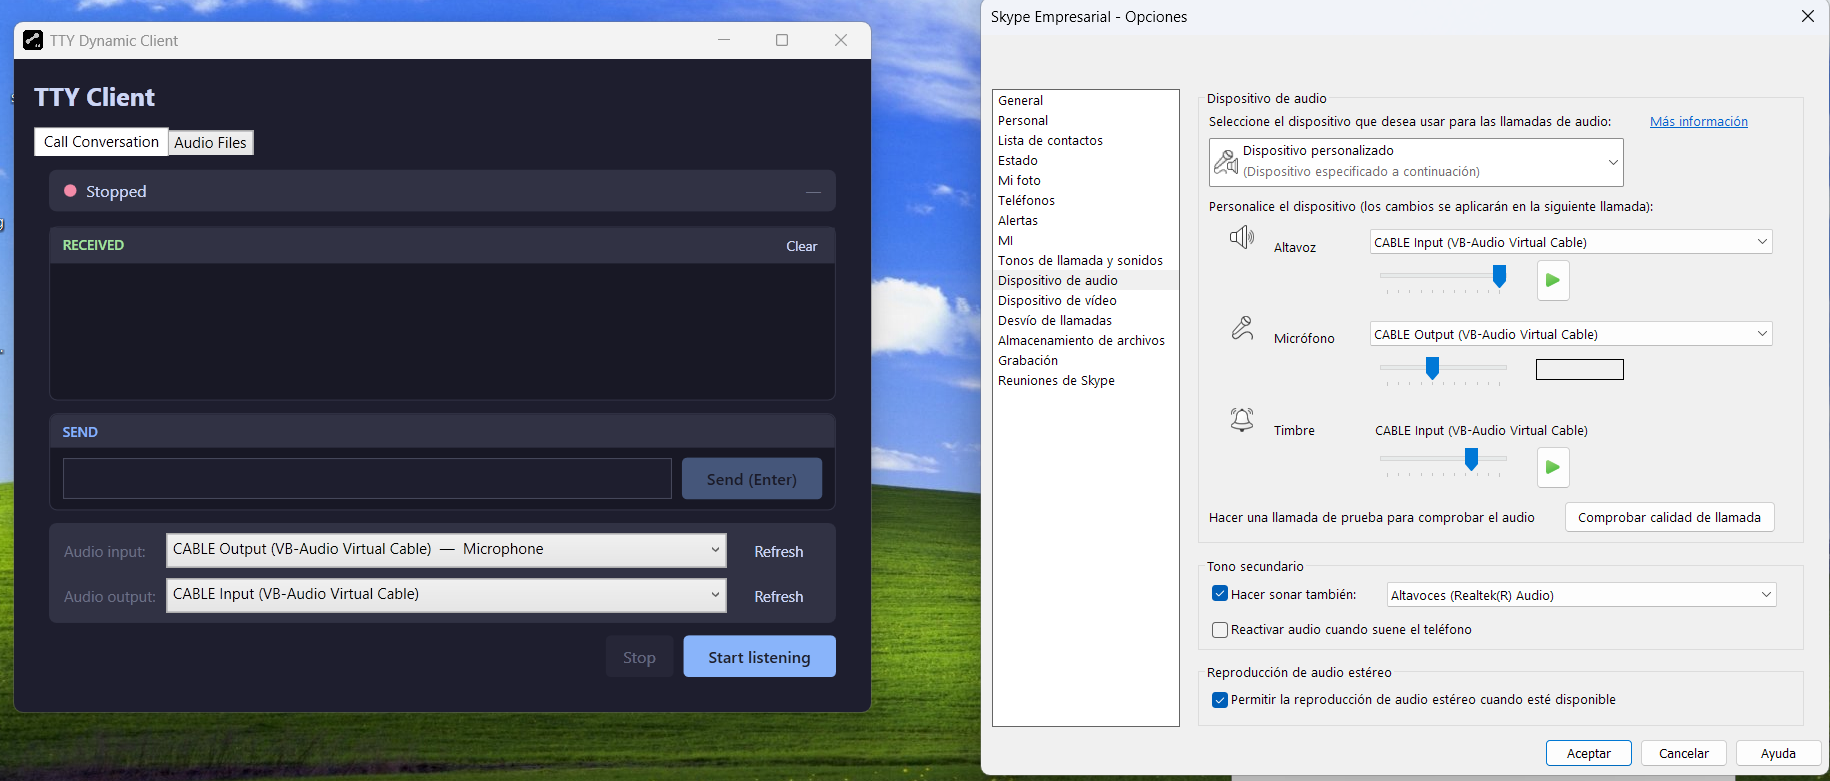
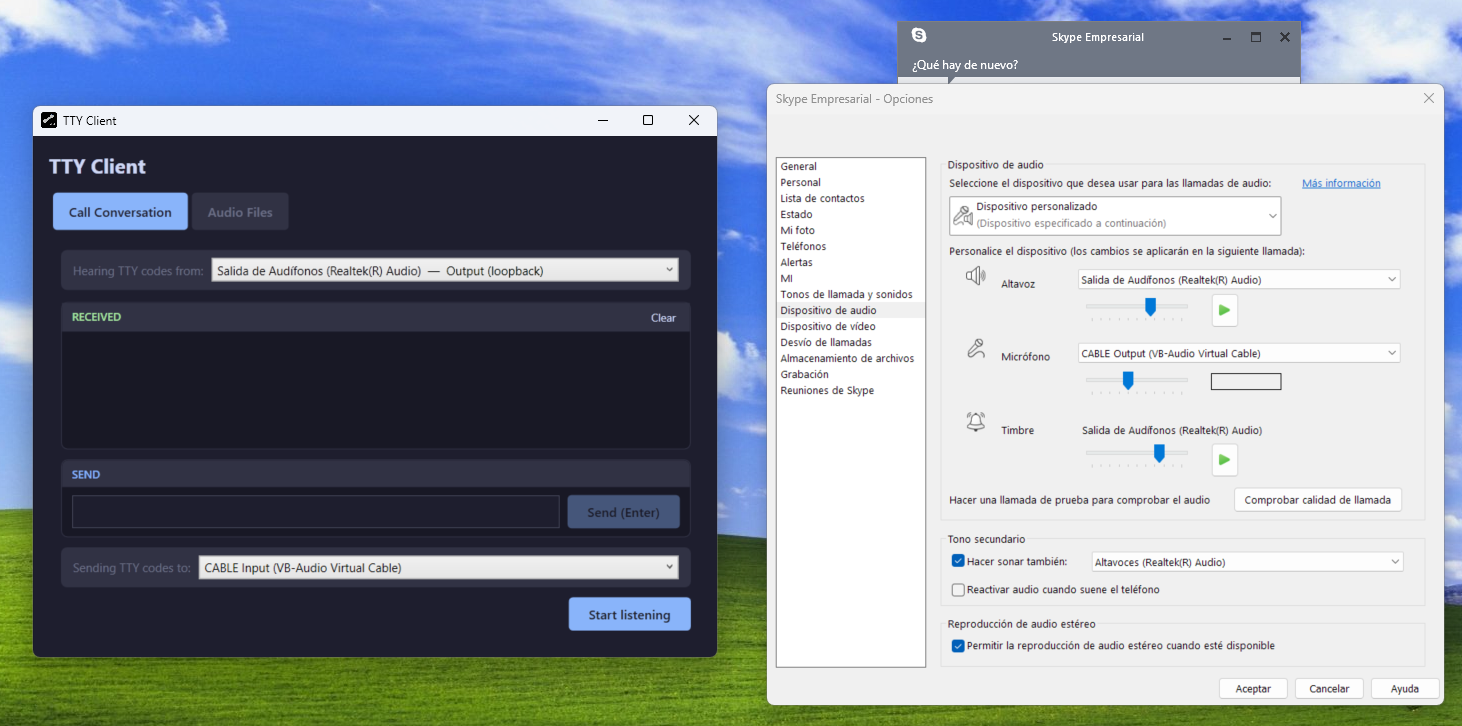
Update README: current device labels, build/run, release workflow note
- Fix stale "Audio output" mentions to the current "Sending TTY codes
  to" label (and "Audio input" -> "Hearing TTY codes from" in the
  side-by-side screenshot caption), and recapture that screenshot.
- Drop the Skype Business mention from the same caption/alt text.
- Build and run: drop the separate `dotnet build` step, note that
  `dotnet run` already builds.
- Note that the release workflow runs the publish command automatically
  on every push to main, so the manual command is only for local testing.

diff --git a/README.md b/README.md
@@ -41,7 +41,7 @@ In other words: everything this app plays to **"CABLE Input"** (which Windows se
 Concrete flow in this app:
 
 1. The user types a message and the app encodes it as FSK tones (Baudot ITA-2).
-2. The app plays those tones to **CABLE Input** (the "Audio output" device in the UI).
+2. The app plays those tones to **CABLE Input** (the "Sending TTY codes to" device in the UI).
 3. VB-CABLE forwards that signal to **CABLE Output**.
 4. In your softphone, configured with **CABLE Output** as its microphone, the tones are transmitted as if they were the user's voice.
 
@@ -49,7 +49,7 @@ Concrete flow in this app:
 
 1. Download and install VB-CABLE from <https://vb-audio.com/Cable/>.
 2. In your softphone's audio settings → **Microphone**: select `CABLE Output (VB-Audio Virtual Cable)`.
-3. In the app, in the **"Audio output"** selector, choose `CABLE Input (VB-Audio Virtual Cable)`.
+3. In the app, in the **"Sending TTY codes to"** selector, choose `CABLE Input (VB-Audio Virtual Cable)`.
 4. The call must connect to a **real PSTN number** with the gateway/SIP trunk set to **G.711 without transcoding** — calls that stay within the same softphone platform often use a proprietary codec and don't preserve the FSK tones.
 
 > VB-CABLE is a kernel driver; it may require IT approval in corporate environments.
@@ -58,14 +58,14 @@ Once installed, VB-CABLE adds the **CABLE Input** (playback) and **CABLE Output*
 
 ![VB-CABLE Input and Output devices in Windows Sound settings](readme_images/vb_cable_devices.png)
 
-Side-by-side device configuration — TTY Client's "Audio input"/"Audio output" selectors on the left, the softphone's (Skype Business) microphone/speaker settings on the right:
+Side-by-side device configuration — TTY Client's "Hearing TTY codes from"/"Sending TTY codes to" selectors on the left, the softphone's microphone/speaker settings on the right:
 
-![TTY Client and Skype Business device configuration side by side](readme_images/tty_and_skype_config.png)
+![TTY Client and softphone device configuration side by side](readme_images/tty_and_skype_config.png)
 
 ## Build and run
 
 ```bash
-dotnet build
+# `dotnet run` builds automatically, so a separate `dotnet build` isn't needed
 dotnet run
 ```
 
@@ -76,5 +76,7 @@ dotnet publish TtyClient.csproj -c Release -r win-x64 --self-contained true -p:P
 ```
 
 The resulting `.exe` ends up at `bin\Release\net10.0-windows\win-x64\publish\TtyClient.exe`.
+
+A GitHub Actions workflow (`.github/workflows/release.yml`) runs this exact command automatically on every push to `main` and publishes the resulting `.exe` as a GitHub Release (see the badge at the top of this file) — running it manually like above is only needed for local testing.
 
 More details on architecture, the audio pipeline, and TTY parameters in [`CLAUDE.md`](CLAUDE.md).
